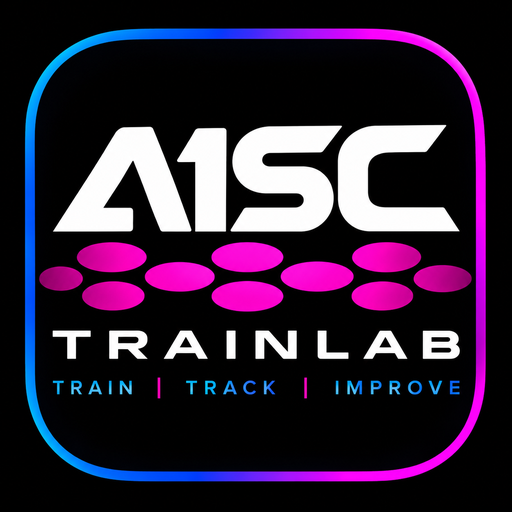
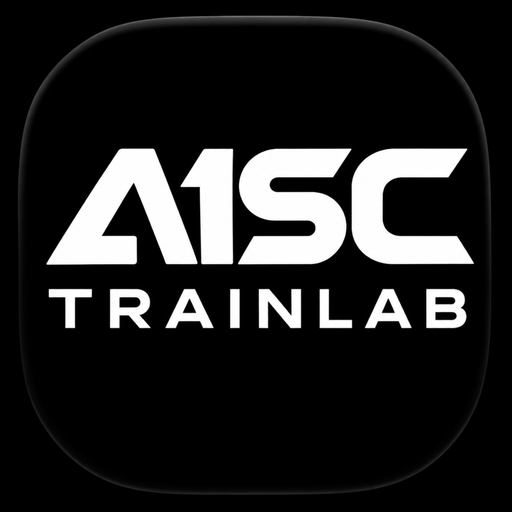
Add files via upload

diff --git a/sw.js b/sw.js
@@ -1,5 +1,5 @@
 
-const CACHE = 'trainlab-v2.17-home-six-cards';
+const CACHE = 'trainlab-v2.18-approved-icon';
 
 const ASSETS = [
   './',
